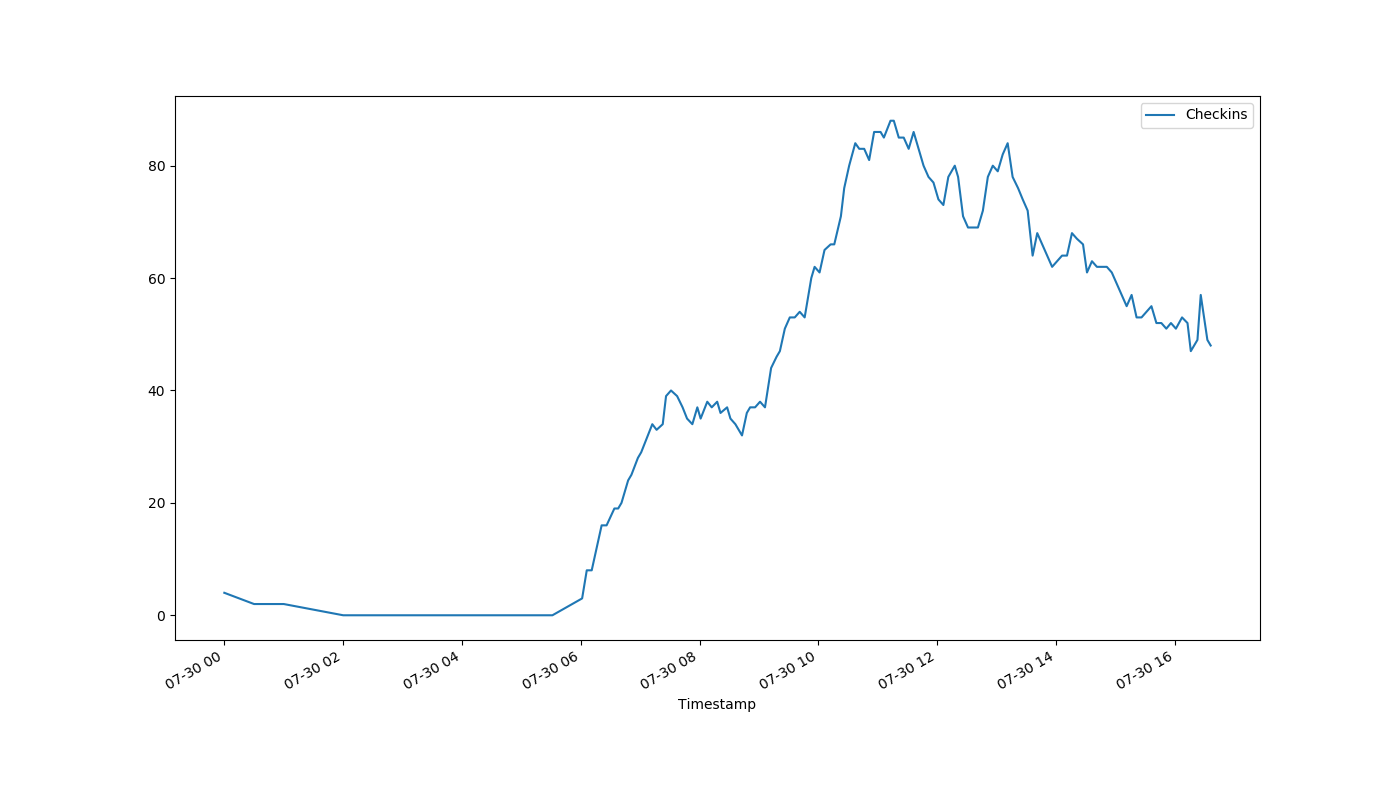
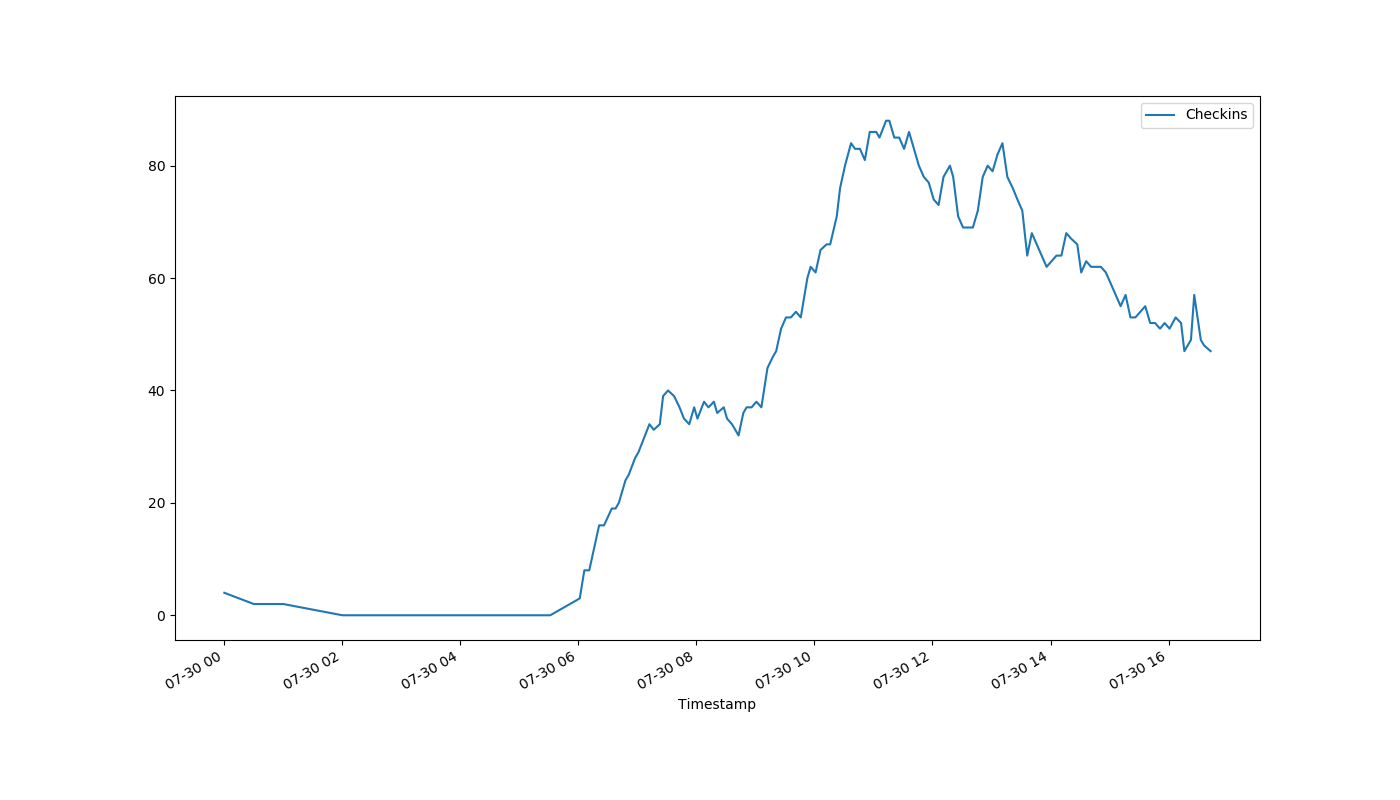
auto-Jul-30-16:44:29

diff --git a/index.html b/index.html
@@ -1,1 +1,1 @@
-<!DOCTYPE html><html><head><meta http-equiv="refresh" content="30"><link rel='stylesheet' href='holmcurrent.css'></head><body><p id='count'>-1</p><div id='graph-wrap'><img id='graph' src='holmgraph-Jul-30.png'></div><p id='updated'>Last updated 16:42:01 / 16:41:28</p></body></html>
+<!DOCTYPE html><html><head><meta http-equiv="refresh" content="30"><link rel='stylesheet' href='holmcurrent.css'></head><body><p id='count'>47</p><div id='graph-wrap'><img id='graph' src='holmgraph-Jul-30.png'></div><p id='updated'>Last updated 16:43:01 / 16:42:49</p></body></html>
